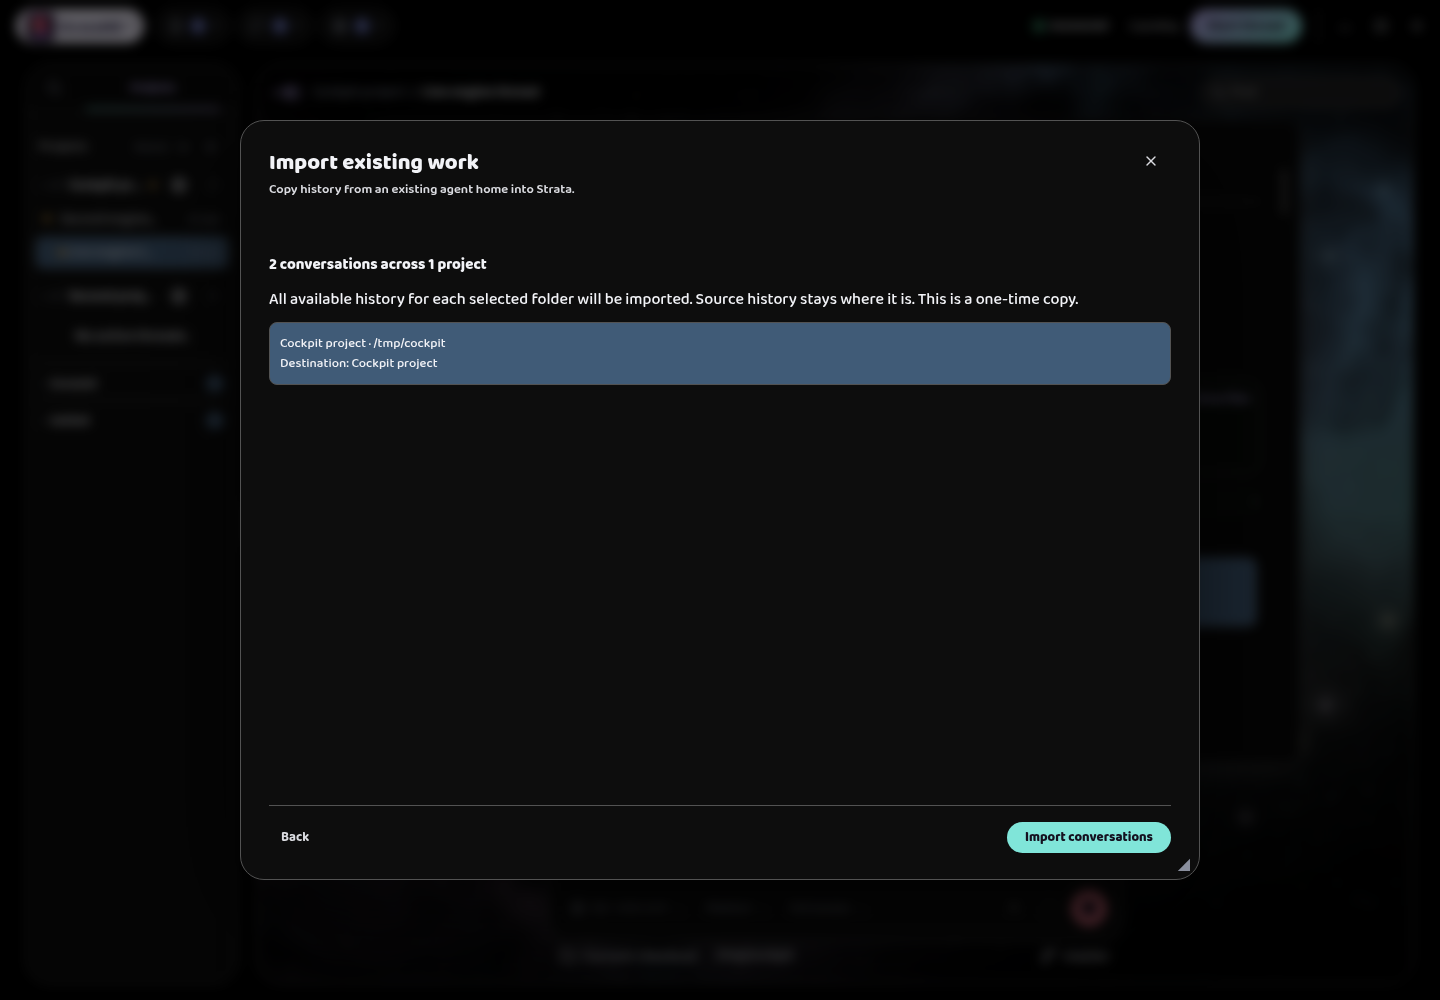
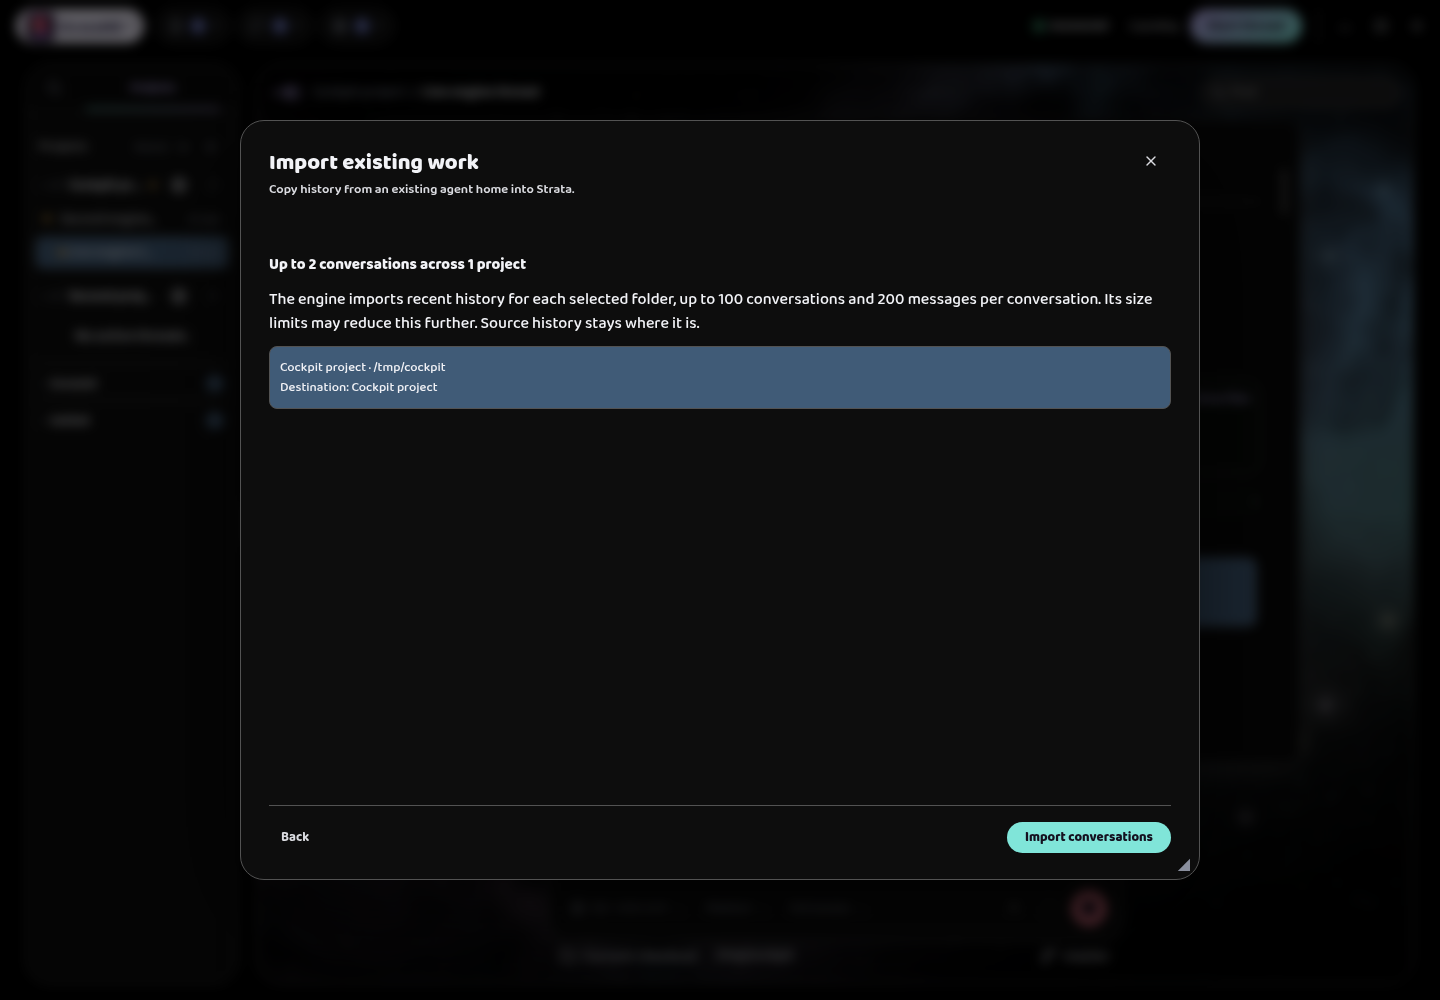
Align defaults and evidence benchmarks with engine contracts

Changed region(s): [[0.1875, 0.248, 0.8125, 0.434]]

diff --git a/docs/design/t3-additions-2026-09-08/v2/proposals.js b/docs/design/t3-additions-2026-09-08/v2/proposals.js
@@ -132,10 +132,10 @@ window.Proposals = (() => {
     const group=node('<section class="proposal-stack proposal-default-fields"></section>');fieldset.querySelector('h3').after(group);mark(group,'Effective settings, inheritance, and explicit project overrides');
     if(state==='computer')group.innerHTML=select('Default account',['Codex work','Claude main'])+select('Default model',['GPT-5.6','Provider default'])+select('Thinking',['High','Medium','Low'])+select('Working copy',['Current checkout','New worktree'])+note('Applies to new conversations unless a project overrides it.');
     else {
-      group.innerHTML='<div class="proposal-effective"><strong>Account and model</strong><span>Codex work · GPT-5.6</span><small>Inherited from computer</small>'+button('Override','override')+'</div>';
-      if(state==='override')group.innerHTML+=select('Thinking for Cockpit project',['Medium','High','Low'],'Project override. Computer default is High.')+button('Use computer default','project');
-      else group.innerHTML+='<div class="proposal-effective"><strong>Thinking</strong><span>High</span><small>Inherited from computer</small>'+button('Override','override')+'</div>';
-      group.innerHTML+='<div class="proposal-effective"><strong>Working copy</strong><span>Current checkout</span><small>Inherited from computer</small>'+button('Override','override')+'</div>'+note('These choices apply only to new conversations in Cockpit project.');
+      group.innerHTML='<div class="proposal-effective"><strong>Account and model</strong><span>Codex work · GPT-5.6</span><small>'+(state==='override'?'Project override':'Inherited from computer')+'</small>'+button(state==='override'?'Reset model and thinking':'Override model and thinking',state==='override'?'project':'override')+'</div>';
+      if(state==='override')group.innerHTML+=select('Thinking for Cockpit project',['Medium','High','Low'],'Saved with account and model. Computer default is High.');
+      else group.innerHTML+='<div class="proposal-effective"><strong>Thinking</strong><span>High</span><small>Uses the account and model default</small></div>';
+      group.innerHTML+='<div class="proposal-effective"><strong>Working copy</strong><span>Current checkout</span><small>Inherited from computer</small>'+button('Override working copy','override')+'</div>'+note('Model and thinking are saved together. These choices apply only to new conversations in Cockpit project.');
     }
     const save=q('.parity-dialog-footer .primary-button');save.disabled=false;save.dataset.go='conflict';mark(save,'Save the selected settings scope');
     if(state==='conflict')add(group,status('Cockpit project settings changed elsewhere. Reload them before saving your changes.','error',button('Reload project settings','project')));
@@ -145,7 +145,7 @@ window.Proposals = (() => {
     let title='Import existing work',body='',footer=button('Cancel','sources');
     if(state==='sources'){body='<fieldset class="setup-fields"><h3>Find native agent history</h3>'+note('The engine searches its configured Codex and Claude sources. Import copies history without starting an agent.')+'</fieldset>';footer+=button('Find projects','select',true);}
     if(state==='select'){body='<fieldset class="setup-fields"><h3>Choose projects</h3>'+select('Show recent projects',['20','50','100'])+'<h3>Cockpit repository</h3>'+row('Cockpit project','/tmp/cockpit · Codex, Claude · 2 conversations')+note('Destination: Existing project at this folder')+'</fieldset>';footer=button('Back','sources')+button('Review selected projects','confirm',true);}
-    if(state==='confirm'){body='<div class="proposal-stack"><h3>2 conversations across 1 project</h3><p>All available history for each selected folder will be imported. Source history stays where it is. This is a one-time copy.</p>'+status('Cockpit project · /tmp/cockpit<br>Destination: Cockpit project')+'</div>';footer=button('Back','select')+button('Import conversations','progress',true);}
+    if(state==='confirm'){body='<div class="proposal-stack"><h3>Up to 2 conversations across 1 project</h3><p>The engine imports recent history for each selected folder, up to 100 conversations and 200 messages per conversation. Its size limits may reduce this further. Source history stays where it is.</p>'+status('Cockpit project · /tmp/cockpit<br>Destination: Cockpit project')+'</div>';footer=button('Back','select')+button('Import conversations','progress',true);}
     if(state==='progress'){body='<div class="proposal-stack"><h3>Importing projects</h3><p>0 of 1 projects complete</p><progress aria-label="Importing Cockpit project"></progress>'+note('Importing /tmp/cockpit. Counts update when the project finishes.')+'</div>';footer='';}
     if(state==='partial'){body='<div class="proposal-stack"><h3>1 imported · 1 project needs attention</h3>'+status('/tmp/inspection-copy could not be read. Permission denied. The imported conversation is ready to open.','error')+note('Retry skips successful projects and conversations already imported.')+'</div>';footer=button('Open imported work','done')+button('Retry failed import','progress',true);}
     if(state==='done'){body='<div class="proposal-stack"><h3>2 conversations imported</h3><p>0 unchanged conversations skipped</p>'+status('Imported work is available in Projects. No agent was started.','good')+'</div>';footer=button('Import more','sources')+button('Open imported work','drafts/markers',true);}
@@ -157,8 +157,8 @@ window.Proposals = (() => {
       const chrome=q('.preview-chrome');chrome.innerHTML='<div class="proposal-readonly-toolbar" style="width:100%"><strong>inspection-page.png</strong><span>Saved screenshot</span>'+button('Annotate','capture/review')+'</div>';mark(chrome,'Saved evidence identity and annotation action');
       q('.preview-stage').innerHTML='<div class="proposal-readonly-stage"><img src="reference/inspection-capture.png" alt="Inspection page screenshot" style="display:block;max-width:100%;height:auto;margin:auto"></div>';mark(q('.preview-stage'),'Saved screenshot in the existing preview frame');return;
     }
-    const text=state==='saved'?'Saved locally · PNG · 838 × 815':state==='transfer'?'Copying from the engine · 64%':'Could not copy to this computer';
-    add(q('.conversation-message.assistant'),`<div class="proposal-evidence">${state==='saved'?'<img src="reference/inspection-capture.png" alt="Inspection page screenshot">':''}<div><strong>${state==='saved'?'inspection-page.png':'inspection-review.webm'}</strong><p class="proposal-note">${text}</p>${state==='transfer'?quota('Transfer',64,'4.1 of 6.4 MB'):''}${state==='failed'?note('Destination: /tmp/cockpit/evidence/inspection-review.webm. The saved recording is still on the engine.'):''}<div>${button(state==='saved'?'Open screenshot':state==='transfer'?'View completed copy':'Retry copy',state==='saved'?'preview':state==='transfer'?'saved':'transfer')}</div></div></div>`,'Evidence card with saved, transfer, or retry state');
+    const text=state==='saved'?'Saved locally · PNG · 838 × 815':state==='transfer'?'Copying to the agent environment':'Could not copy to the agent environment';
+    add(q('.conversation-message.assistant'),`<div class="proposal-evidence">${state==='saved'?'<img src="reference/inspection-capture.png" alt="Inspection page screenshot">':''}<div><strong>${state==='saved'?'inspection-page.png':'inspection-review.webm'}</strong><p class="proposal-note">${text}</p>${state==='transfer'?'<progress aria-label="Copying to the agent environment"></progress>':''}${state==='failed'?note('Destination: Cockpit engine. The completed recording is still saved on this computer.'):''}<div>${button(state==='saved'?'Open screenshot':state==='transfer'?'View completed copy':'Retry copy',state==='saved'?'preview':state==='transfer'?'saved':'transfer')}${state==='failed'?button('View completed copy','preview'):''}</div></div></div>`,'Evidence card with saved, transfer, or retry state');
   }
   function capture(state){
     if(state==='held'){

diff --git a/docs/design/t3-additions-2026-09-08/v2/benchmark-guide.md b/docs/design/t3-additions-2026-09-08/v2/benchmark-guide.md
@@ -88,3 +88,11 @@ The numeric maximum-output example was replaced with T3-supported select and boo
 ## Import contract correction
 
 T3 discovers and imports by project folder. The import fixtures now select repository-grouped projects and show explicit destinations. They do not offer unsupported individual-conversation or provider-home filters. Progress counts completed projects and stays indeterminate within a project. The approved Strata dialog and row styling remain the benchmark.
+
+## Defaults and transfer contract corrections
+
+The engine saves the account/model and thinking options together. Defaults retain the approved rows, but the model action now explicitly overrides or resets both; working-copy inheritance remains independent. This avoids presenting a reasoning-only save that the engine does not support.
+
+Browser evidence transfers from Strata's retained local copy to the agent environment. The transfer and failure fixtures now name that direction and use indeterminate progress because the transfer contract reports completion, not a byte percentage. The original local copy remains viewable.
+
+The import confirmation describes bounded recent history: up to 100 conversations per selected project and 200 messages per conversation, subject to the engine's byte limit. Discovered conversation counts are upper estimates, not a promise to import every historical message.
